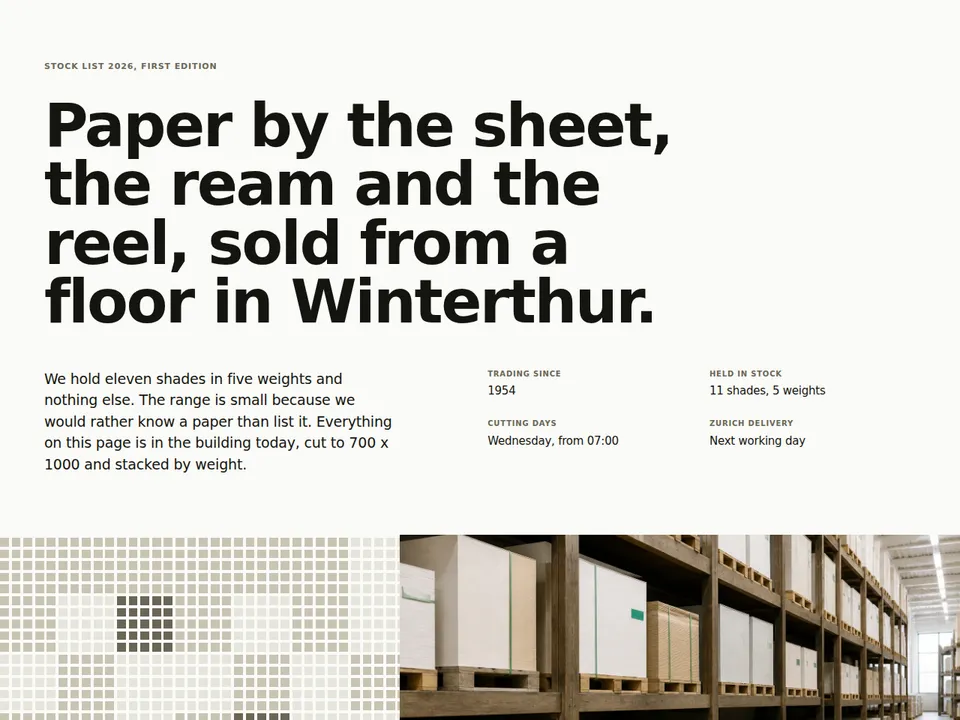
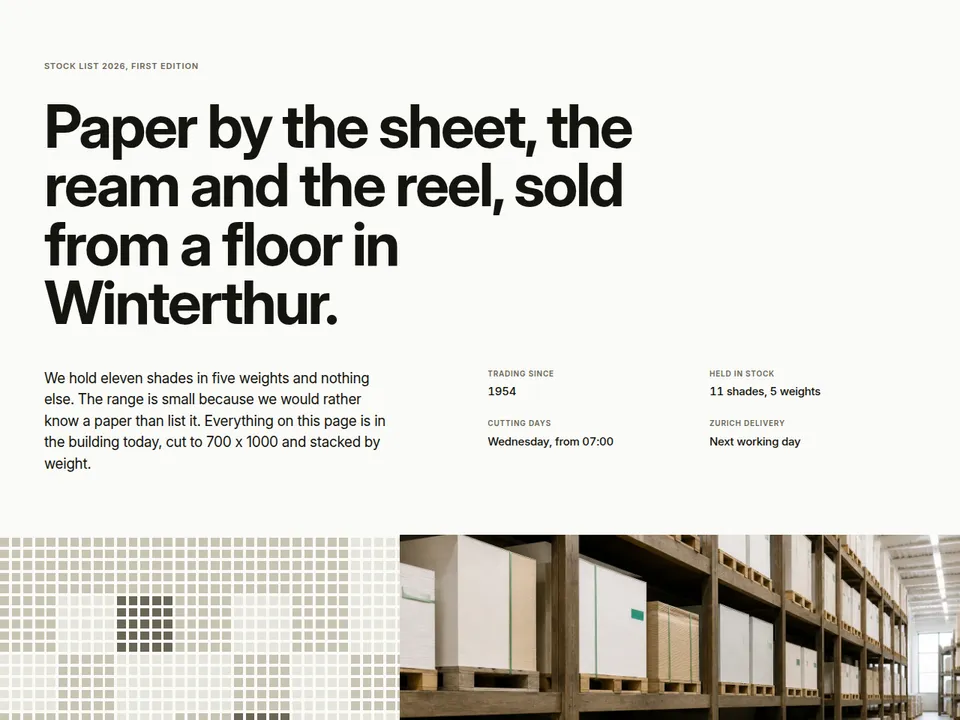
Template shots: write one only once its web fonts have drawn
A Google Fonts stylesheet that fails to load leaves nothing for
document.fonts.ready to wait on, so the fallback was photographed:
Bogen Papier's card set its Inter headline in DejaVu Sans. Before each
shot the script now asks the browser (CDP platform fonts) what drew every
family, weight and style the viewport shows from Google Fonts; a web font
drawn by a system font gets one reload, then the slug is reported and its
shot left alone. Bogen Papier reshot.

Claude-Session: https://claude.ai/code/session_01Bo47EU4co9gzmQdVGEZvE5

diff --git a/CLAUDE.md b/CLAUDE.md
@@ -546,6 +546,18 @@ Committed like the previews, because the deploy build has no browser; reshoot
 a template after its hero or header changes, and check a new one's crop by
 eye.
 
+**A shot is written only once its web fonts have drawn.** The pages load
+their faces from Google Fonts, and a stylesheet that fails to load leaves
+nothing to wait for: `document.fonts.ready` resolves at once and the
+fallback is photographed. Bogen Papier's card set its Inter headline in
+DejaVu Sans that way, and so did others, with nothing to say so. So before
+each shot the script marks one visible element per family, weight and style
+the page loads from Google Fonts (read off the stylesheet links, since
+`document.fonts` is empty for exactly the stylesheet that failed) and asks
+the browser, through CDP's `CSS.getPlatformFontsForNode`, what drew it. A
+web font drawn by a system font gets one reload, then the slug is reported
+and its shot left as it was.
+
 ## The template gallery - a mixed order, pages, and the URL
 
 `/templates` shows 50 cards a page, in the order `GALLERY_ORDER` in
